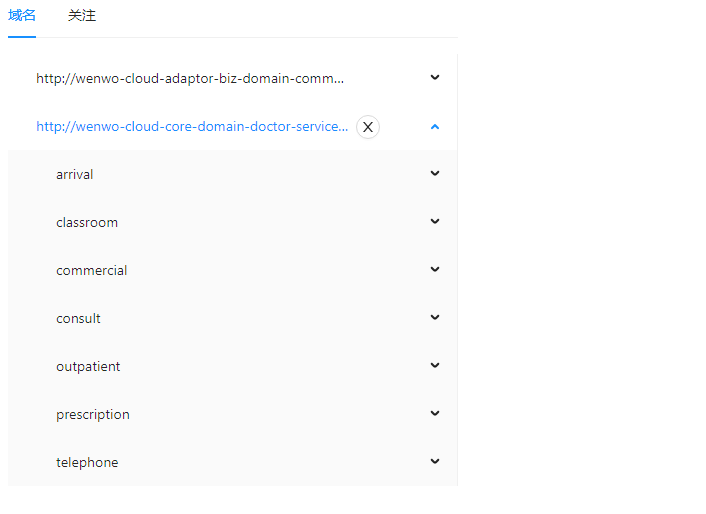
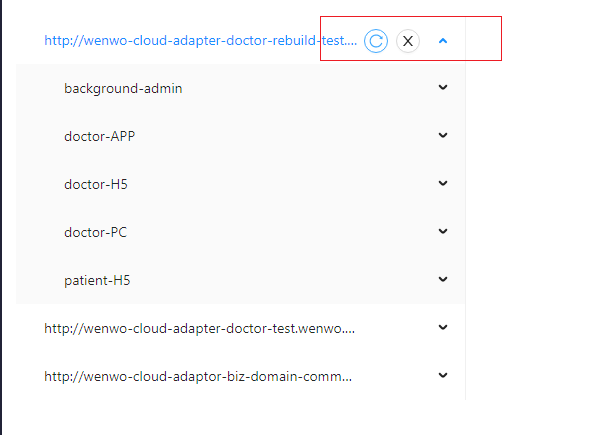
swagger支持直接刷新域名

diff --git a/src/pages/project/swagger/components/EnterSwaggerModal.tsx b/src/pages/project/swagger/components/EnterSwaggerModal.tsx
@@ -18,6 +18,7 @@ import NProject from "../../NProject";
 import SProject from "../../SProject";
 export interface IEnterSwaggerModal {
   showModal: (domainSwaggerList: NProject.IDomainSwagger[]) => void;
+  reload: (url: string) => void;
 }
 export interface IEnterSwaggerModalProps {
   onOk: () => void;
@@ -58,6 +59,9 @@ const EnterSwaggerModal: ForwardRefRenderFunction<
           }, 100);
         })
       );
+    },
+    reload: (url: string) => {
+      fetchSwaggerDoc(url, {});
     },
   }));
 
@@ -158,87 +162,91 @@ const EnterSwaggerModal: ForwardRefRenderFunction<
       });
     }
   }
-  async function onOk() {
-    form.validateFields().then(async (values) => {
-      let newData = produce(state, (drafState) => {
-        drafState.isAnalysisMode = true;
+  async function fetchSwaggerDoc(url: string, formValues: any = {}) {
+    let newData = produce(state, (drafState) => {
+      drafState.visible = true;
+      drafState.isAnalysisMode = true;
+    });
+    setState(newData);
+
+    const featchGroupUrl = USwagger.getUrlByGroup(url);
+    const groupListRsp = await SBase.featchOtherDomainUrl<NSwagger.IGroup[]>(
+      featchGroupUrl
+    );
+    if (groupListRsp.success) {
+      newData = produce(newData, (drafState) => {
+        drafState.parseNodeList.push(
+          <h3>
+            获取到
+            <span style={{ color: "green" }}>{groupListRsp.data.length}</span>
+            个分组
+          </h3>
+        );
       });
       setState(newData);
-
-      const url = new urlParse(values.url);
-      const featchGroupUrl = USwagger.getUrlByGroup(url.origin);
-      const groupListRsp = await SBase.featchOtherDomainUrl<NSwagger.IGroup[]>(
-        featchGroupUrl
-      );
-      if (groupListRsp.success) {
-        newData = produce(newData, (drafState) => {
-          drafState.parseNodeList.push(
-            <h3>
-              获取到
-              <span style={{ color: "green" }}>{groupListRsp.data.length}</span>
-              个分组
-            </h3>
-          );
-        });
-        setState(newData);
-      }
-      const groupWithTagList: NSwagger.IGroupWithTag = {};
-      for (let i = 0; i < groupListRsp.data.length; i++) {
-        const group = groupListRsp.data[i];
-        newData = produce(newData, (drafState) => {
-          drafState.parseNodeList.push(
-            <span>
-              开始解析
-              <span style={{ fontWeight: "bold" }}>{group.name}</span>
-            </span>
-          );
-        });
-        setState(newData);
-        const groupRsp = await SBase.featchOtherDomainUrl<NSwagger.IGroupApis>(
-          url.origin + group.url
+    }
+    const groupWithTagList: NSwagger.IGroupWithTag = {};
+    for (let i = 0; i < groupListRsp.data.length; i++) {
+      const group = groupListRsp.data[i];
+      newData = produce(newData, (drafState) => {
+        drafState.parseNodeList.push(
+          <span>
+            开始解析
+            <span style={{ fontWeight: "bold" }}>{group.name}</span>
+          </span>
         );
-        if (groupRsp.success) {
-          const tagWithPaths = USwagger.intoTagOfPath(groupRsp.data);
-          groupWithTagList[group.name] = tagWithPaths;
-        }
+      });
+      setState(newData);
+      const groupRsp = await SBase.featchOtherDomainUrl<NSwagger.IGroupApis>(
+        url + group.url
+      );
+      if (groupRsp.success) {
+        const tagWithPaths = USwagger.intoTagOfPath(groupRsp.data);
+        groupWithTagList[group.name] = tagWithPaths;
       }
+    }
 
-      //换算出用于页面渲染的数据结构
-      let renderSwaggerInfos = {} as NProject.IRenderSwaggerInfo;
-      Object.keys(groupWithTagList).forEach((groupName) => {
-        const renderGroup = (renderSwaggerInfos[groupName] = {
-          groupName,
-          tags: {},
+    //换算出用于页面渲染的数据结构
+    let renderSwaggerInfos = {} as NProject.IRenderSwaggerInfo;
+    Object.keys(groupWithTagList).forEach((groupName) => {
+      const renderGroup = (renderSwaggerInfos[groupName] = {
+        groupName,
+        tags: {},
+      });
+      const renderTags = renderGroup.tags;
+      const tagWithPaths = groupWithTagList[groupName];
+      Object.keys(tagWithPaths).forEach((tagName) => {
+        const pathInfos = tagWithPaths[tagName];
+        const renderPaths = (renderTags[tagName] = {
+          tagName,
+          paths: {},
         });
-        const renderTags = renderGroup.tags;
-        const tagWithPaths = groupWithTagList[groupName];
-        Object.keys(tagWithPaths).forEach((tagName) => {
-          const pathInfos = tagWithPaths[tagName];
-          const renderPaths = (renderTags[tagName] = {
-            tagName,
-            paths: {},
-          });
-          Object.keys(pathInfos).forEach((pathUrl) => {
-            const methodInfo = pathInfos[pathUrl];
-            renderPaths.paths[pathUrl] = USwagger.parseMethodInfo(
-              pathUrl,
-              methodInfo
-            );
-          });
+        Object.keys(pathInfos).forEach((pathUrl) => {
+          const methodInfo = pathInfos[pathUrl];
+          renderPaths.paths[pathUrl] = USwagger.parseMethodInfo(
+            pathUrl,
+            methodInfo
+          );
         });
       });
-      const saveRsp = await SProject.saveSwagger(
-        {
-          data: renderSwaggerInfos,
-          domain: url.origin,
-        },
-        state.way,
-        values.domainName
-      );
-      if (saveRsp.success) {
-        onCancel();
-        props.onOk();
-      }
+    });
+    const saveRsp = await SProject.saveSwagger(
+      {
+        data: renderSwaggerInfos,
+        domain: url,
+      },
+      state.way,
+      formValues.domainName
+    );
+    if (saveRsp.success) {
+      onCancel();
+      props.onOk();
+    }
+  }
+  function onOk() {
+    form.validateFields().then(async (values) => {
+      const urlParseInfo = new urlParse(values.url);
+      fetchSwaggerDoc(urlParseInfo.origin, values);
     });
   }
 };

diff --git a/src/pages/project/swagger/components/KeyValueExtractionModal.tsx b/src/pages/project/swagger/components/KeyValueExtractionModal.tsx
@@ -1,8 +1,6 @@
 import React, {
   forwardRef,
   ForwardRefRenderFunction,
-  ReactNode,
-  useEffect,
   useImperativeHandle,
   useRef,
   useState,
@@ -84,14 +82,14 @@ const KeyValueExtractionModal: ForwardRefRenderFunction<
         </Form.Item>
         <Form.Item>
           <Space size={30}>
-            <Button onClick={() => reqKeyValueExtraction("onlyEnglish")}>
+            <Button onClick={() => reqKeyValueExtraction("onlyValue")}>
               提取英文
             </Button>
-            <Button onClick={() => reqKeyValueExtraction("englishChinese")}>
-              英文前中文后
+            <Button onClick={() => reqKeyValueExtraction("valueDescribe")}>
+              值前描述后
             </Button>
-            <Button onClick={() => reqKeyValueExtraction("chineseEnglish")}>
-              中文前英文后
+            <Button onClick={() => reqKeyValueExtraction("describeValue")}>
+              描述前值后
             </Button>
           </Space>
         </Form.Item>
@@ -106,12 +104,12 @@ const KeyValueExtractionModal: ForwardRefRenderFunction<
     </Modal>
   );
   function generateEnumCode() {
-    if (state.strategy === "onlyEnglish") {
+    if (state.strategy === "onlyValue") {
       if (state.enumList) {
         onCancel();
         props.onEnumCode(state.enumList);
       }
-    } else if (state.strategy === "englishChinese") {
+    } else if (state.strategy === "valueDescribe") {
       if (state.values) {
         onCancel();
         props.onEnumCode(state.enumList, state.values);
@@ -120,7 +118,7 @@ const KeyValueExtractionModal: ForwardRefRenderFunction<
   }
   function renderExtractionResult() {
     const noResult = <span style={{ color: "#C00000" }}> 没有提取到</span>;
-    if (state.strategy === "onlyEnglish") {
+    if (state.strategy === "onlyValue") {
       if (state.enumList) {
         return (
           <div className="content">
@@ -140,8 +138,6 @@ const KeyValueExtractionModal: ForwardRefRenderFunction<
       }
       return noResult;
     }
-
-    return "";
   }
   async function reqKeyValueExtraction(strategy: string) {
     form.validateFields().then(async (values) => {

diff --git a/src/pages/project/swagger/PProjectSwagger.tsx b/src/pages/project/swagger/PProjectSwagger.tsx
@@ -26,6 +26,7 @@ import {
   CloseOutlined,
   CopyOutlined,
   DownloadOutlined,
+  ReloadOutlined,
   UploadOutlined,
 } from "@ant-design/icons";
 import UCopy from "@/common/utils/UCopy";
@@ -711,12 +712,20 @@ const PProjectSwagger: ConnectRC<IPProjectSwaggerProps> = (props) => {
                         <div className="domainTitleWrap">
                           <div className="title">{domainItem.domain}</div>
                           <div className="able">
-                            <Button
-                              onClick={(e) => onDelDomain(e, domainItem)}
-                              shape="circle"
-                              size="small"
-                              icon={<CloseOutlined />}
-                            ></Button>
+                            <Space direction="horizontal" size={8}>
+                              <Button
+                                onClick={(e) => onReload(domainItem)}
+                                shape="circle"
+                                size="small"
+                                icon={<ReloadOutlined />}
+                              ></Button>
+                              <Button
+                                onClick={(e) => onDelDomain(e, domainItem)}
+                                shape="circle"
+                                size="small"
+                                icon={<CloseOutlined />}
+                              ></Button>
+                            </Space>
                           </div>
                         </div>
                       }
@@ -955,6 +964,9 @@ const PProjectSwagger: ConnectRC<IPProjectSwaggerProps> = (props) => {
         {renderPathUrl(pathMenuCheckbox.pathUrl)}
       </Menu.Item>
     );
+  }
+  function onReload(domainItem: NProject.IDomainSwagger) {
+    swaggerModalRef.current.reload(domainItem.domain);
   }
   async function onDelDomain(
     event: React.MouseEvent,

diff --git a/src/pages/project/swagger/components/GenerateEnumCodeModal.tsx b/src/pages/project/swagger/components/GenerateEnumCodeModal.tsx
@@ -7,7 +7,6 @@ import React, {
 import { Modal, Button, Form, Input, Tabs, message } from "antd";
 import produce from "immer";
 import SelfStyle from "./GenerateEnumCodeModal.less";
-import NProject from "../../NProject";
 import SProject from "../../SProject";
 import UCopy from "@/common/utils/UCopy";
 import SyntaxHighlighter from "react-syntax-highlighter";

diff --git a/manual/1项目管理/1.Swagger.md b/manual/1项目管理/1.Swagger.md
@@ -272,7 +272,7 @@ external.getPathPrefix 得到路径的前缀
 - 对应中文描述
 - 支持通过 key 查询中文描述
 
-扩展匹配规则(增加分隔符)、生气其它格式(TypeScript)可改动 keyValueExtraction.js
+扩展匹配规则(增加分隔符)、生成其它格式(TypeScript)可改动 keyValueExtraction.js
 
 # 类型
 
